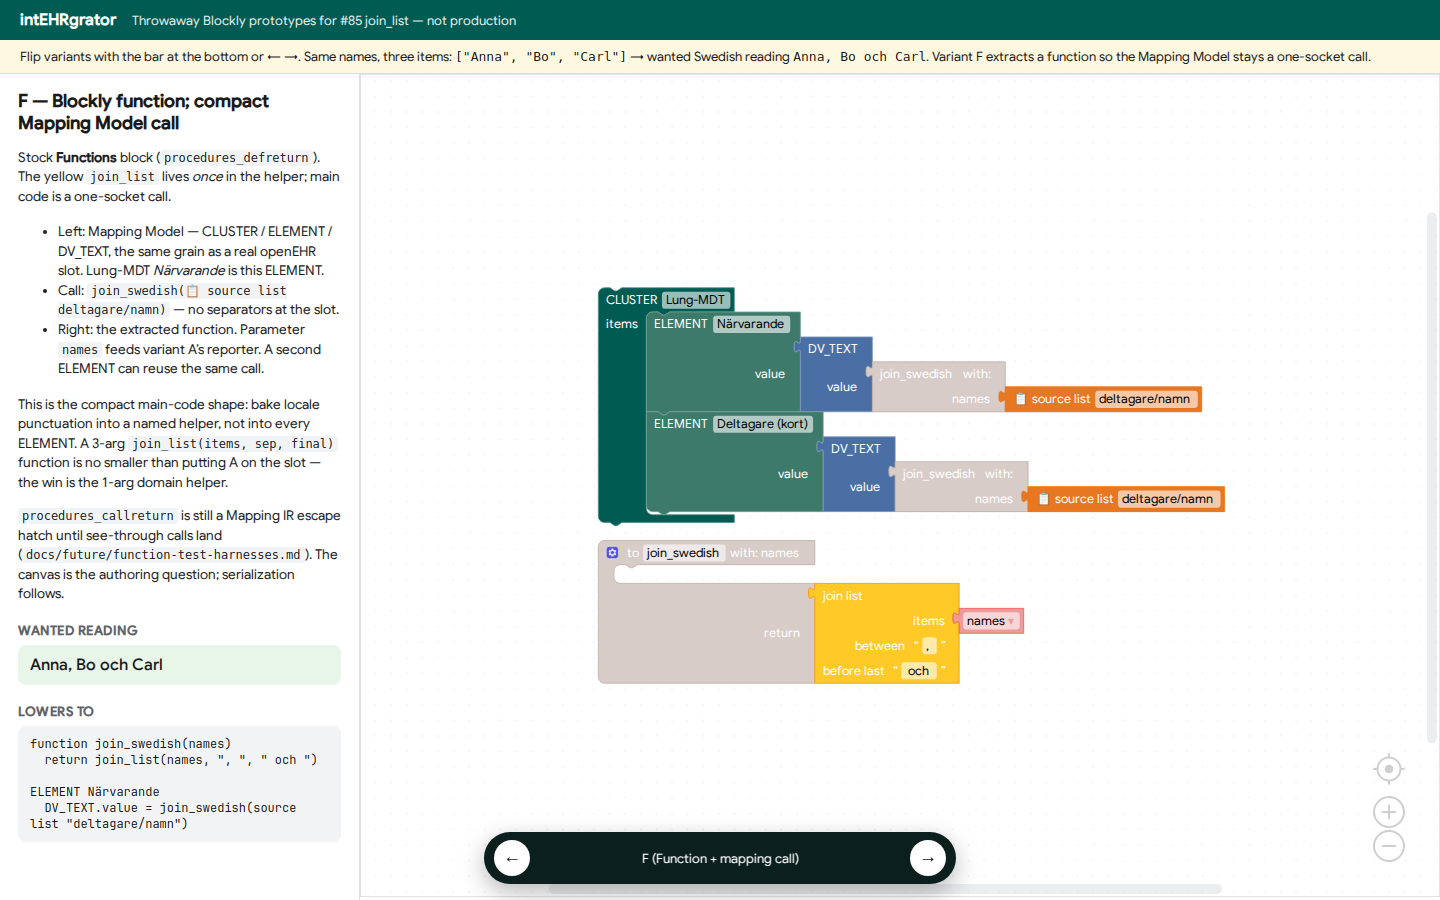
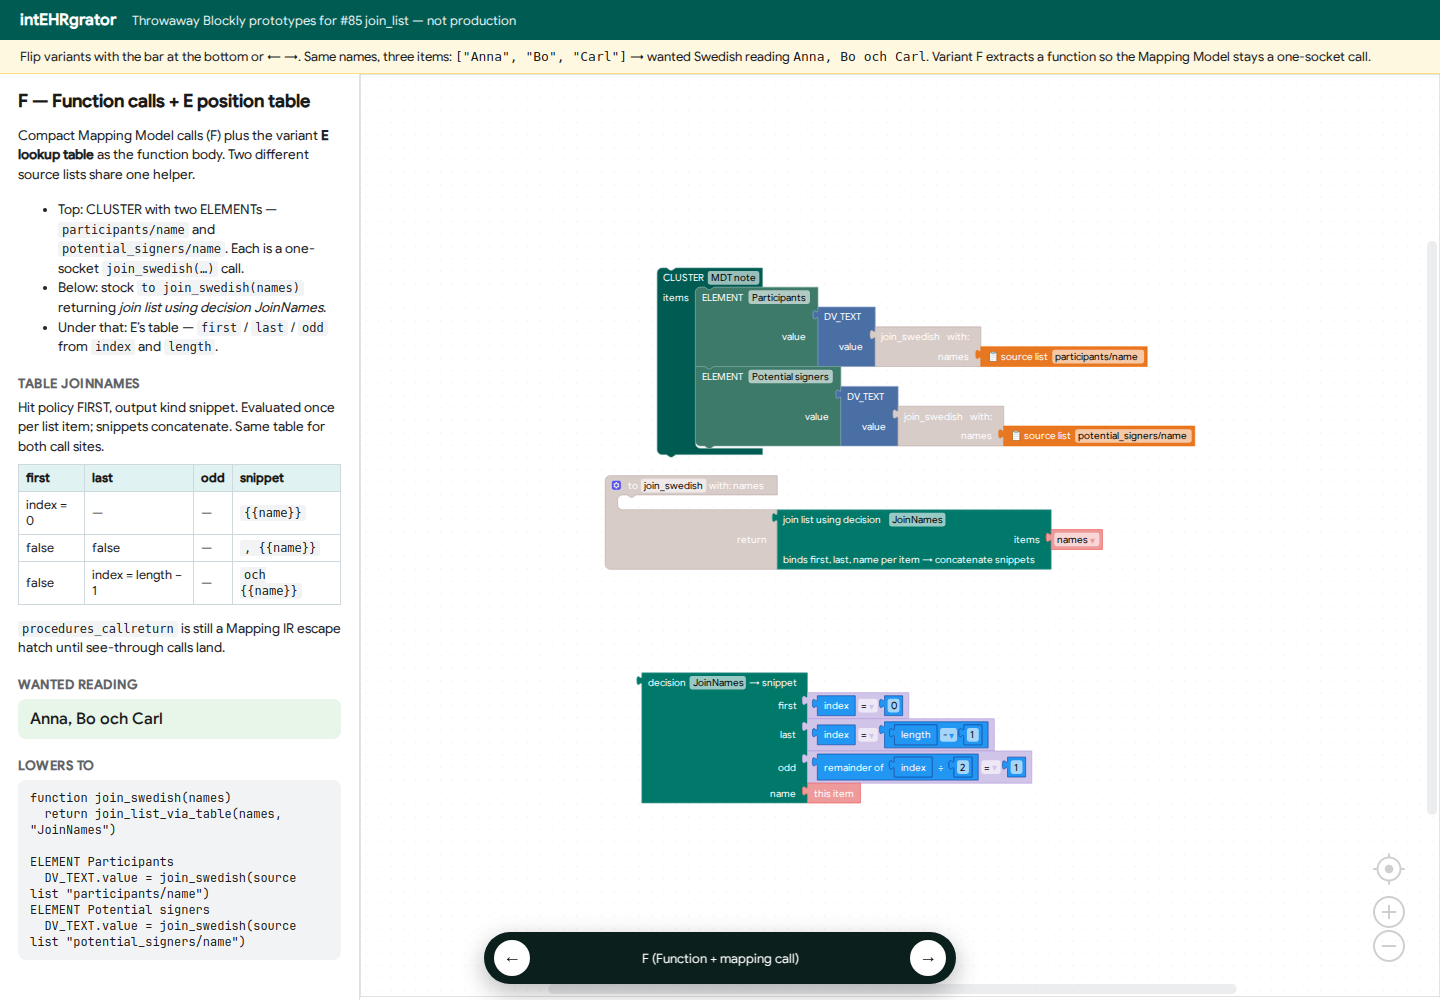
Space variant F so the JoinNames table sits clear of the CLUSTER.

diff --git a/web/prototype_join_list.ts b/web/prototype_join_list.ts
@@ -471,9 +471,9 @@ const VARIANTS: Record<VariantKey, Variant> = {
       );
       participants.nextConnection?.connect(signers.previousConnection!);
 
-      place(cluster, 16, 16);
-      place(def, 16, 340);
-      place(indexLengthDecision(ws), 16, 560);
+      place(cluster, 16, 8);
+      place(def, 16, 420);
+      place(indexLengthDecision(ws), 16, 700);
     },
   },
 };
@@ -515,7 +515,7 @@ function loadVariant(key: VariantKey): void {
   workspace.clear();
   const v = VARIANTS[key];
   v.build(workspace);
-  workspace.setScale(key === "E" ? 0.78 : key === "F" ? 0.68 : 0.92);
+  workspace.setScale(key === "E" ? 0.78 : key === "F" ? 0.62 : 0.92);
   workspace.scrollCenter();
   renderSide(v);
   document.body.dataset.protoReady = key;
